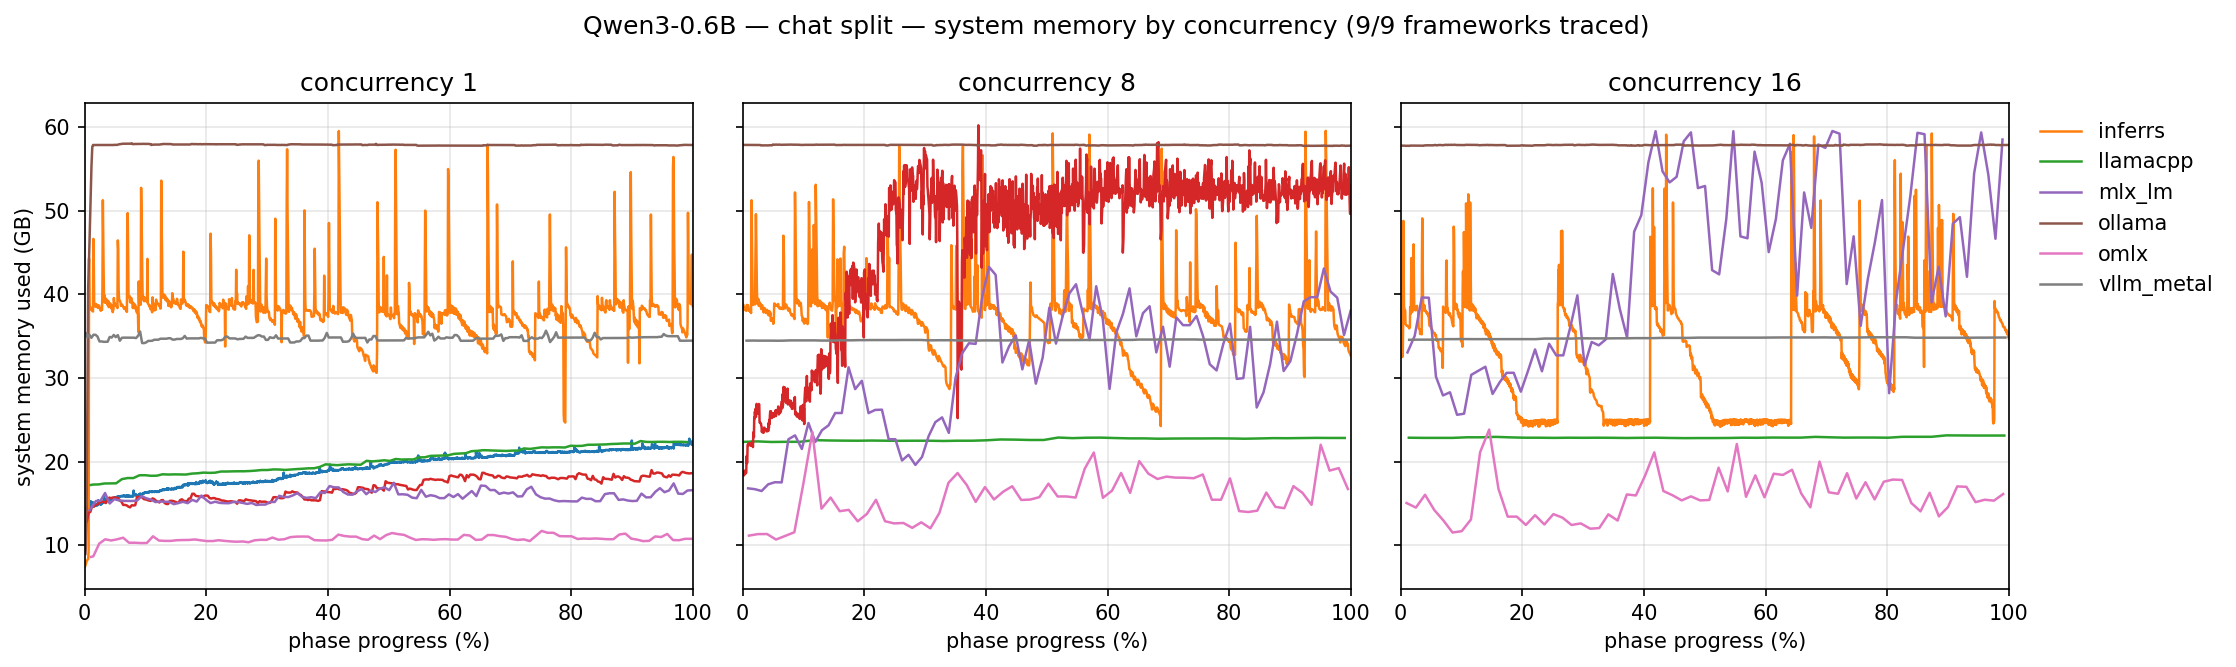
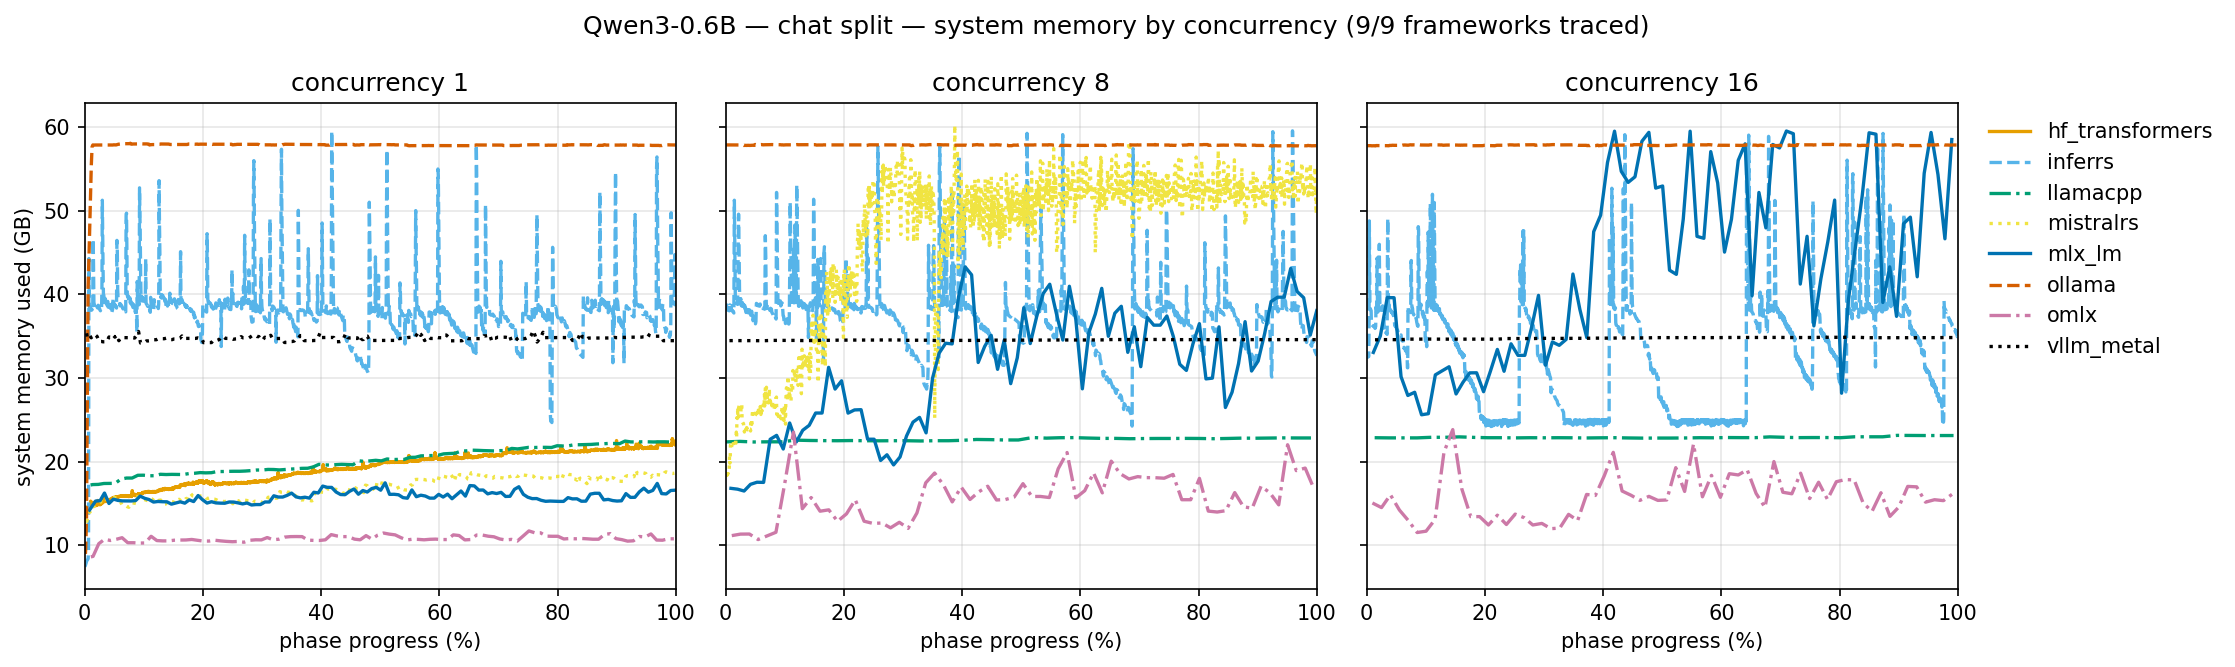
draw: colorblind-safe palette + legend from c=1 panel
- Swap tab10 for Wong (2011) 8-color palette + neutral grey — safe
  under protanopia, deuteranopia, and tritanopia. Linestyle rotation
  adds redundancy where lines overlap.
- Source the shared legend from the c=1 panel so frameworks that only
  produced data at c=1 (e.g. hf_transformers whose c=8/c=16 were
  adaptively skipped) still appear as baselines.

diff --git a/draw/plot_memory.py b/draw/plot_memory.py
@@ -25,6 +25,22 @@ REPO_ROOT = Path(__file__).resolve().parent.parent
 CONCURRENCIES = [1, 8, 16]
 METRIC = "mem_used_gb"
 
+# Colorblind-safe palette: Wong (2011) 8 colors + Tol muted grey — distinguishable
+# under protanopia, deuteranopia, and tritanopia. 9 slots for up to 9 frameworks.
+CVD_COLORS = [
+    "#E69F00",  # orange
+    "#56B4E9",  # sky blue
+    "#009E73",  # bluish green
+    "#F0E442",  # yellow
+    "#0072B2",  # blue
+    "#D55E00",  # vermillion
+    "#CC79A7",  # reddish purple
+    "#000000",  # black
+    "#999999",  # grey
+]
+# Extra redundancy via linestyle rotation — helps when two lines overlap.
+CVD_LINESTYLES = ["-", "--", "-.", ":", "-", "--", "-.", ":", "-"]
+
 
 def main() -> None:
     ap = argparse.ArgumentParser()
@@ -39,9 +55,9 @@ def main() -> None:
         raise SystemExit(f"No *_metalstat.jsonl under {split_dir}")
 
     fig, axes = plt.subplots(1, 3, figsize=(15, 4.5), sharey=True)
-    cmap = plt.get_cmap("tab10")
     frameworks = sorted(traces)
-    colors = {fw: cmap(i % 10) for i, fw in enumerate(frameworks)}
+    colors = {fw: CVD_COLORS[i % len(CVD_COLORS)] for i, fw in enumerate(frameworks)}
+    styles = {fw: CVD_LINESTYLES[i % len(CVD_LINESTYLES)] for i, fw in enumerate(frameworks)}
 
     for ax, conc in zip(axes, CONCURRENCIES):
         for fw in frameworks:
@@ -52,15 +68,22 @@ def main() -> None:
             x_pct, idxs = phase
             series = tr.series(METRIC)
             y = [series[i] for i in idxs]
-            ax.plot(x_pct, y, label=fw, color=colors[fw], linewidth=1.2)
+            ax.plot(
+                x_pct, y, label=fw,
+                color=colors[fw], linestyle=styles[fw], linewidth=1.6,
+            )
         ax.set_title(f"concurrency {conc}")
         ax.set_xlabel("phase progress (%)")
         ax.set_xlim(0, 100)
         ax.grid(True, alpha=0.3)
     axes[0].set_ylabel("system memory used (GB)")
 
+    # Legend built from the c=1 panel so frameworks that only benched at c=1
+    # (e.g. hf_transformers when c=8/c=16 were adaptively skipped) still appear.
+    handles, labels = axes[0].get_legend_handles_labels()
     axes[-1].legend(
-        loc="upper left", bbox_to_anchor=(1.02, 1.0), frameon=False
+        handles, labels,
+        loc="upper left", bbox_to_anchor=(1.02, 1.0), frameon=False,
     )
     fig.suptitle(
         f"{args.model} — {args.split} split — system memory by concurrency "
